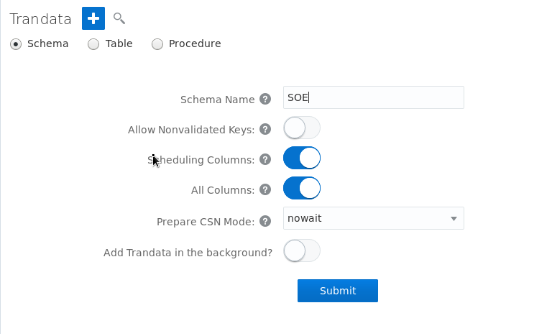
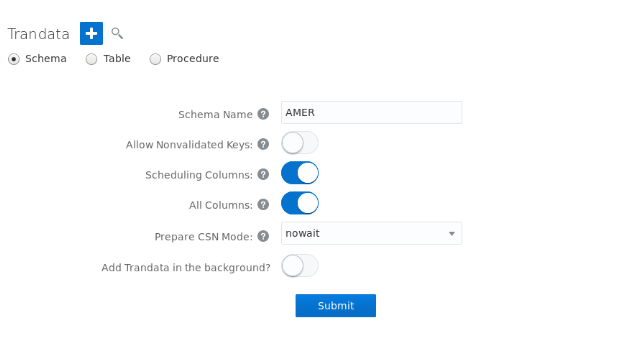
Commit

diff --git a/workshops/gg/CloudWorkshop_GoldenGate_400.md b/workshops/gg/CloudWorkshop_GoldenGate_400.md
@@ -16,7 +16,8 @@ This lab supports the following use cases:
 ## Objectives
 
 -   Set up bidirection replication between two databases i.e. AMER DB and EURO DB
--   Set up auto conflict detaction and resolution.
+-   Set up auto conflict detaction and resolution. And to set up we need to log in to both the databases and run the below PL/SQL
+for all the tables - EXEC DBMS_GOLDENGATE_ADM.ADD_AUTO_CDR(schema_name => 'xxxxxx',table_name  => 'xxxxxxx');
 
 ## Required Artifacts
 
@@ -126,27 +127,17 @@ Figure A-11:
 
 On the last page of the Add Extract process, you are presented with a parameter file (Figure A-12).  The parameter file is partially filled out, but missing the TABLE parameters. Insert the following list of TABLE parameter values into the parameter file.
 
-TABLE SOE.ADDRESSES;                                                                                                              
+TRANLOGOPTIONS EXCLUDETAG 123
 
-TABLE SOE.CUSTOMERS;                                                                                                              
+TABLE AMER.TITLE;                                                                                                              
 
-TABLE SOE.ORDERS;                                                                                                                 
+TABLE AMER.PUBLISHER; 
 
-TABLE SOE.ORDER_ITEMS;                                                                                                            
+TABLE AMER.AUTHOR;                                                                                                                
 
-TABLE SOE.CARD_DETAILS; 
+TABLE AMER.ADDRESS;                                                                                                            
 
-TABLE SOE.LOGON;                                                                                                                  
-
-TABLE SOE.PRODUCT_INFORMATION;                                                                                                    
-
-TABLE SOE.INVENTORIES;                                                                                                            
-
-TABLE SOE.PRODUCT_DESCRIPTIONS;                                                                                                   
-
-TABLE SOE.WAREHOUSES;                                                                                                             
-
-TABLE SOE.ORDERENTRY_METADATA; 
+TABLE AMER.TITLE_AUTHOR; 
 
 Notes: ~/Desktop/Software/extract.prm has these contents for copying.
 Once the TABLE statements are added, click Create and Run at the bottom of the page.
@@ -290,29 +281,17 @@ Figure D-7:
 
 8.	You are next taken to the Parameter File page.  On this page, you will notice that a sample parameter file is provided (Figure D-8).  You will have to remove the MAP statement and replace it with the information below:
 
-INSERTMISSINGUPDATES
+DBOPTIONS SETTAG 123
 
-MAP SOE.CUSTOMERS, TARGET SOE.CUSTOMERS, KEYCOLS (CUSTOMER_ID);                                                              
+MAPINVISIBLECOLUMNS
 
-MAP SOE.ADDRESSES, TARGET SOE.ADDRESSES, KEYCOLS (ADDRESS_ID);                                                               
+MAP AMER.TITLE, TARGET EURO.TITLE;                                                                                                              
+MAP AMER.PUBLISHER, TARGET EURO.PUBLISHER; 
 
-MAP SOE.ORDERS, TARGET SOE.ORDERS, KEYCOLS (ORDER_ID);                                                                       
+MAP AMER.AUTHOR, TARGET EURO.AUTHOR;                                                                                                             
+MAP AMER.ADDRESS, TARGET EURO.ADDRESS;                                                                                                            
+MAP AMER.TITLE_AUTHOR, TARGET EURO.TITLE_AUTHOR;  
 
-MAP SOE.ORDER_ITEMS, TARGET SOE.ORDER_ITEMS, KEYCOLS (ORDER_ID, LINE_ITEM_ID);                                               
-
-MAP SOE.CARD_DETAILS, TARGET SOE.CARD_DETAILS, KEYCOLS (CARD_ID);
-
-MAP SOE.LOGON, TARGET SOE.LOGON;                                                                                             
-
-MAP SOE.PRODUCT_INFORMATION, TARGET SOE.PRODUCT_INFORMATION;                                                                 
-
-MAP SOE.INVENTORIES, TARGET SOE.INVENTORIES, KEYCOLS (PRODUCT_ID, WAREHOUSE_ID);
-
-MAP SOE.PRODUCT_DESCRIPTIONS, TARGET SOE.PRODUCT_DESCRIPTIONS;                                                               
-
-MAP SOE.WAREHOUSES, TARGET SOE.WAREHOUSES;                                                                                   
-
-MAP SOE.ORDERENTRY_METADATA, TARGET SOE.ORDERENTRY_METADATA;
 
 Notes: ~/Desktop/Software/replicat.prm has these contents for copying.
 Once the parameter file has been updated, click the Create and Run button at the bottom.
@@ -427,27 +406,17 @@ Figure E-11:
 
 On the last page of the Add Extract process, you are presented with a parameter file (Figure E-12).  The parameter file is partially filled out, but missing the TABLE parameters. Insert the following list of TABLE parameter values into the parameter file.
 
-TABLE SOE.ADDRESSES;                                                                                                              
+TRANLOGOPTIONS EXCLUDETAG 123
 
-TABLE SOE.CUSTOMERS;                                                                                                              
+TABLE EURO.TITLE;                                                                                                              
 
-TABLE SOE.ORDERS;                                                                                                                 
+TABLE EURO.PUBLISHER; 
+                                                                                                             
+TABLE EURO.AUTHOR;                                                                                                                
 
-TABLE SOE.ORDER_ITEMS;                                                                                                            
+TABLE EURO.ADDRESS;                                                                                                            
 
-TABLE SOE.CARD_DETAILS; 
-
-TABLE SOE.LOGON;                                                                                                                  
-
-TABLE SOE.PRODUCT_INFORMATION;                                                                                                    
-
-TABLE SOE.INVENTORIES;                                                                                                            
-
-TABLE SOE.PRODUCT_DESCRIPTIONS;                                                                                                   
-
-TABLE SOE.WAREHOUSES;                                                                                                             
-
-TABLE SOE.ORDERENTRY_METADATA; 
+TABLE EURO.TITLE_AUTHOR; 
 
 Notes: ~/Desktop/Software/extract.prm has these contents for copying.
 Once the TABLE statements are added, click Create and Run at the bottom of the page.
@@ -593,36 +562,23 @@ Figure H-7:
 
 8.	You are next taken to the Parameter File page.  On this page, you will notice that a sample parameter file is provided (Figure H-8).  You will have to remove the MAP statement and replace it with the information below:
 
-INSERTMISSINGUPDATES
+DBOPTIONS SETTAG 123
 
-MAP SOE.CUSTOMERS, TARGET SOE.CUSTOMERS, KEYCOLS (CUSTOMER_ID);                                                              
+MAPINVISIBLECOLUMNS
 
-MAP SOE.ADDRESSES, TARGET SOE.ADDRESSES, KEYCOLS (ADDRESS_ID);                                                               
+MAP EURO.TITLE, TARGET AMER.TITLE;                                                                                                           
+MAP EURO.PUBLISHER, TARGET AMER.PUBLISHER; 
 
-MAP SOE.ORDERS, TARGET SOE.ORDERS, KEYCOLS (ORDER_ID);                                                                       
-
-MAP SOE.ORDER_ITEMS, TARGET SOE.ORDER_ITEMS, KEYCOLS (ORDER_ID, LINE_ITEM_ID);                                               
-
-MAP SOE.CARD_DETAILS, TARGET SOE.CARD_DETAILS, KEYCOLS (CARD_ID);
-
-MAP SOE.LOGON, TARGET SOE.LOGON;                                                                                             
-
-MAP SOE.PRODUCT_INFORMATION, TARGET SOE.PRODUCT_INFORMATION;                                                                 
-
-MAP SOE.INVENTORIES, TARGET SOE.INVENTORIES, KEYCOLS (PRODUCT_ID, WAREHOUSE_ID);
-
-MAP SOE.PRODUCT_DESCRIPTIONS, TARGET SOE.PRODUCT_DESCRIPTIONS;                                                               
-
-MAP SOE.WAREHOUSES, TARGET SOE.WAREHOUSES;                                                                                   
-
-MAP SOE.ORDERENTRY_METADATA, TARGET SOE.ORDERENTRY_METADATA;
+MAP EURO.AUTHOR, TARGET AMER.AUTHOR;                                                                                                                
+MAP EURO.ADDRESS, TARGET AMER.ADDRESS;                                                                                                            
+MAP EURO.TITLE_AUTHOR, TARGET AMER.TITLE_AUTHOR;  
 
 Notes: ~/Desktop/Software/replicat.prm has these contents for copying.
 Once the parameter file has been updated, click the Create and Run button at the bottom.
 
 Figure H-8:
  
-![](images/400/Lab400_image380.png) 
+![](images/400/Lab400_image680.png) 
 
 At this point, you should have a fully functional uni-directional replication environment. You can start Swingbench and begin testing.  See Appendix A for further instructions.
 
